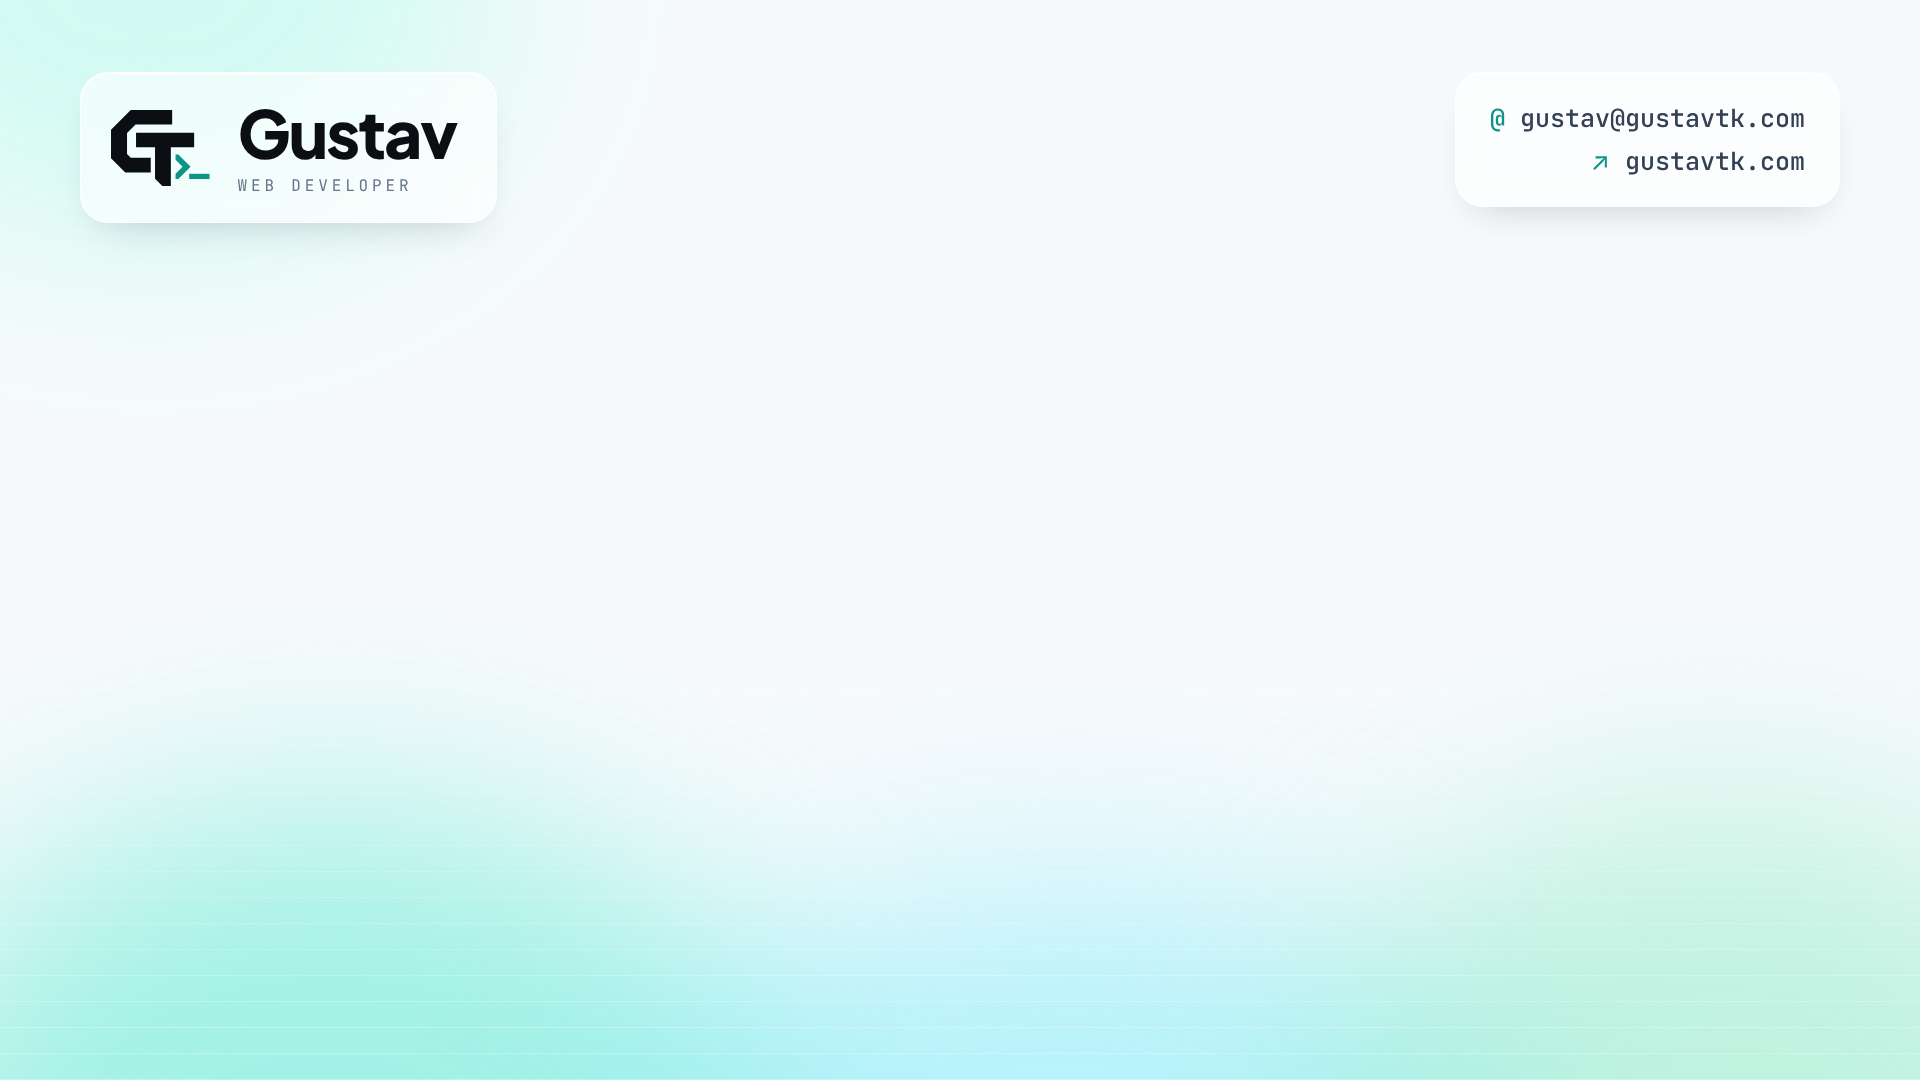
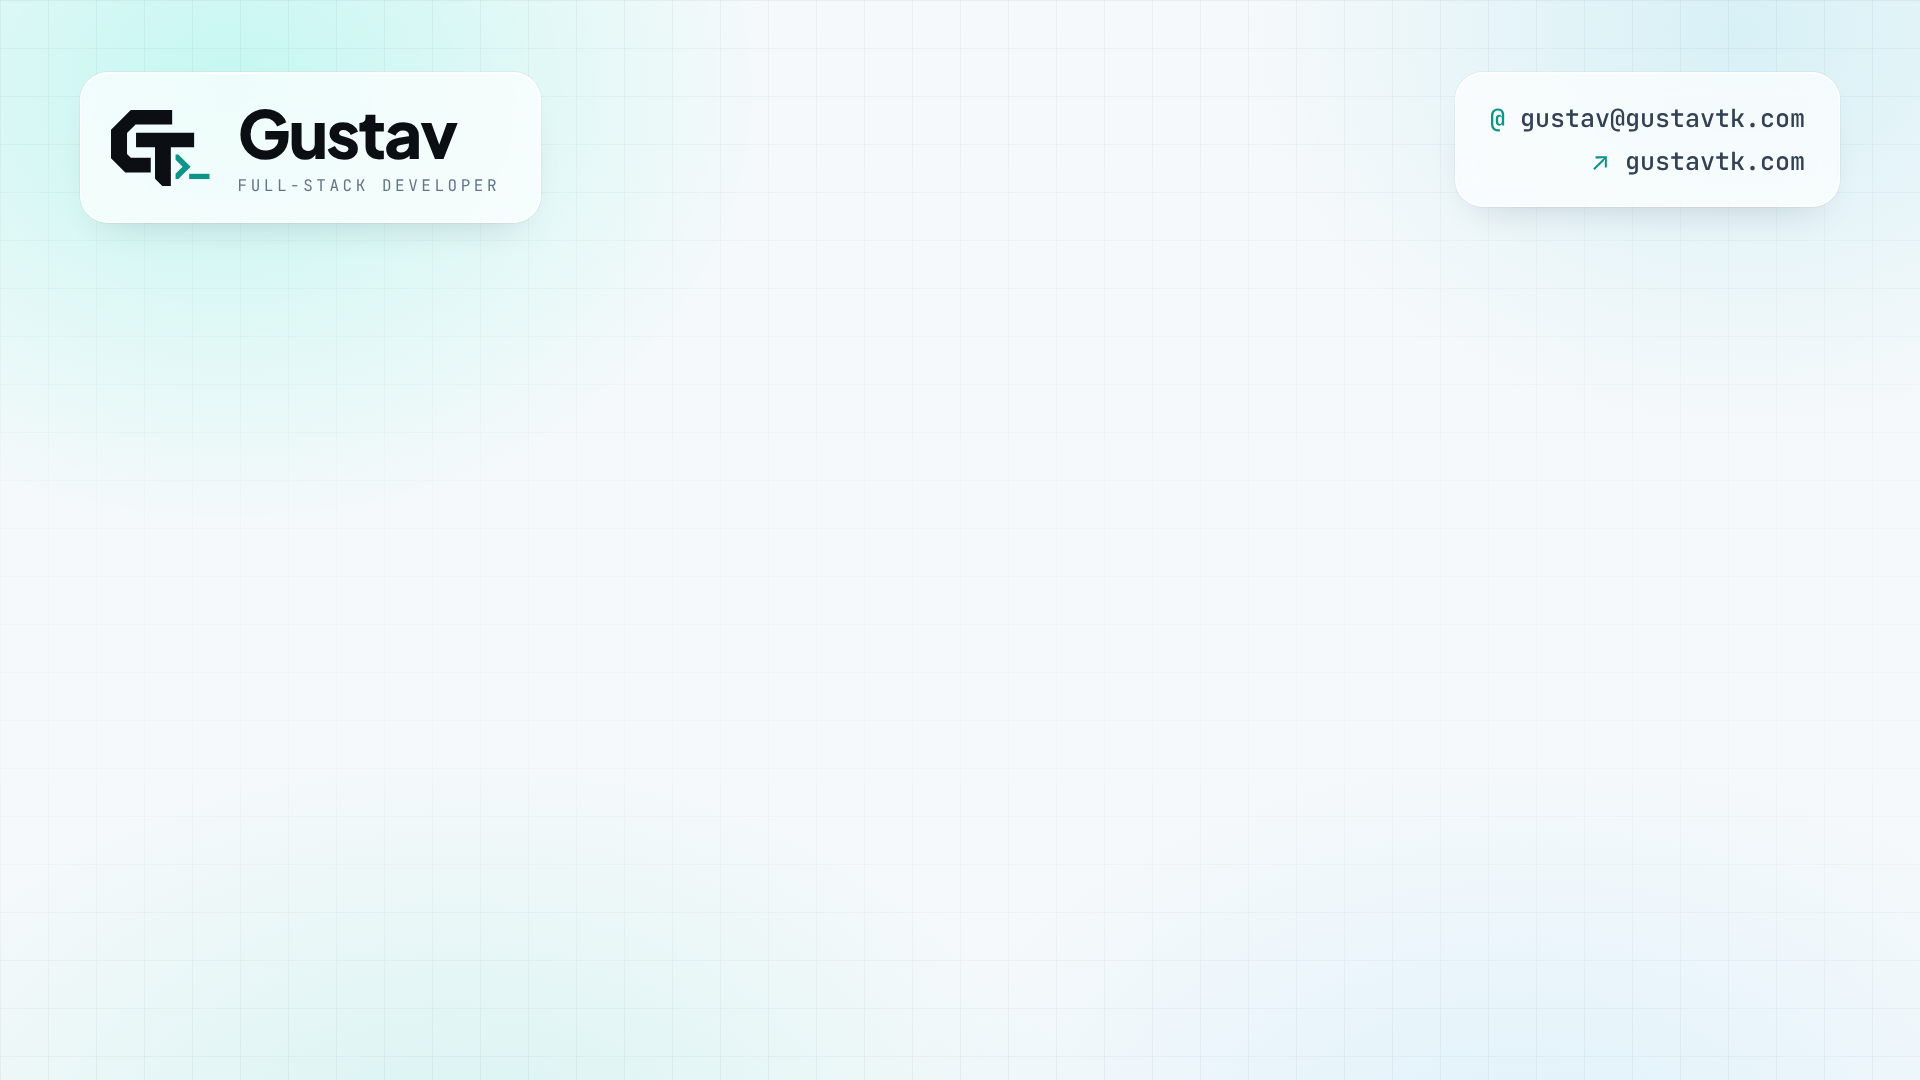
Glass Meet background: Full-Stack Developer role, calmer site-grid backdrop
Claude-Session: https://claude.ai/code/session_01H2TVSc56KQZrPADdEAeWoT

diff --git a/meet-backgrounds/README.md b/meet-backgrounds/README.md
@@ -11,7 +11,7 @@ Logo, name and role sit top left; email and website top right; the middle stays 
 | `02-access-pass.png` | The hero's lanyard access pass hanging top left |
 | `03-browser.png` | A light browser window: your brand in the tab, gustavtk.com in the address bar |
 | `04-code.png` | Your contact details as a `contact.ts` snippet in a small editor card |
-| `05-glass.png` | Frosted-glass cards over a soft teal and cyan glow |
+| `05-glass.png` | Frosted-glass cards over the site grid and a calm teal glow (role: Full-Stack Developer) |
 
 **Upload the files in this folder, not `mirrored/`.** Meet mirrors only your own self-view; everyone
 else sees the background exactly as uploaded, so the text reads correctly for them. The copies in
